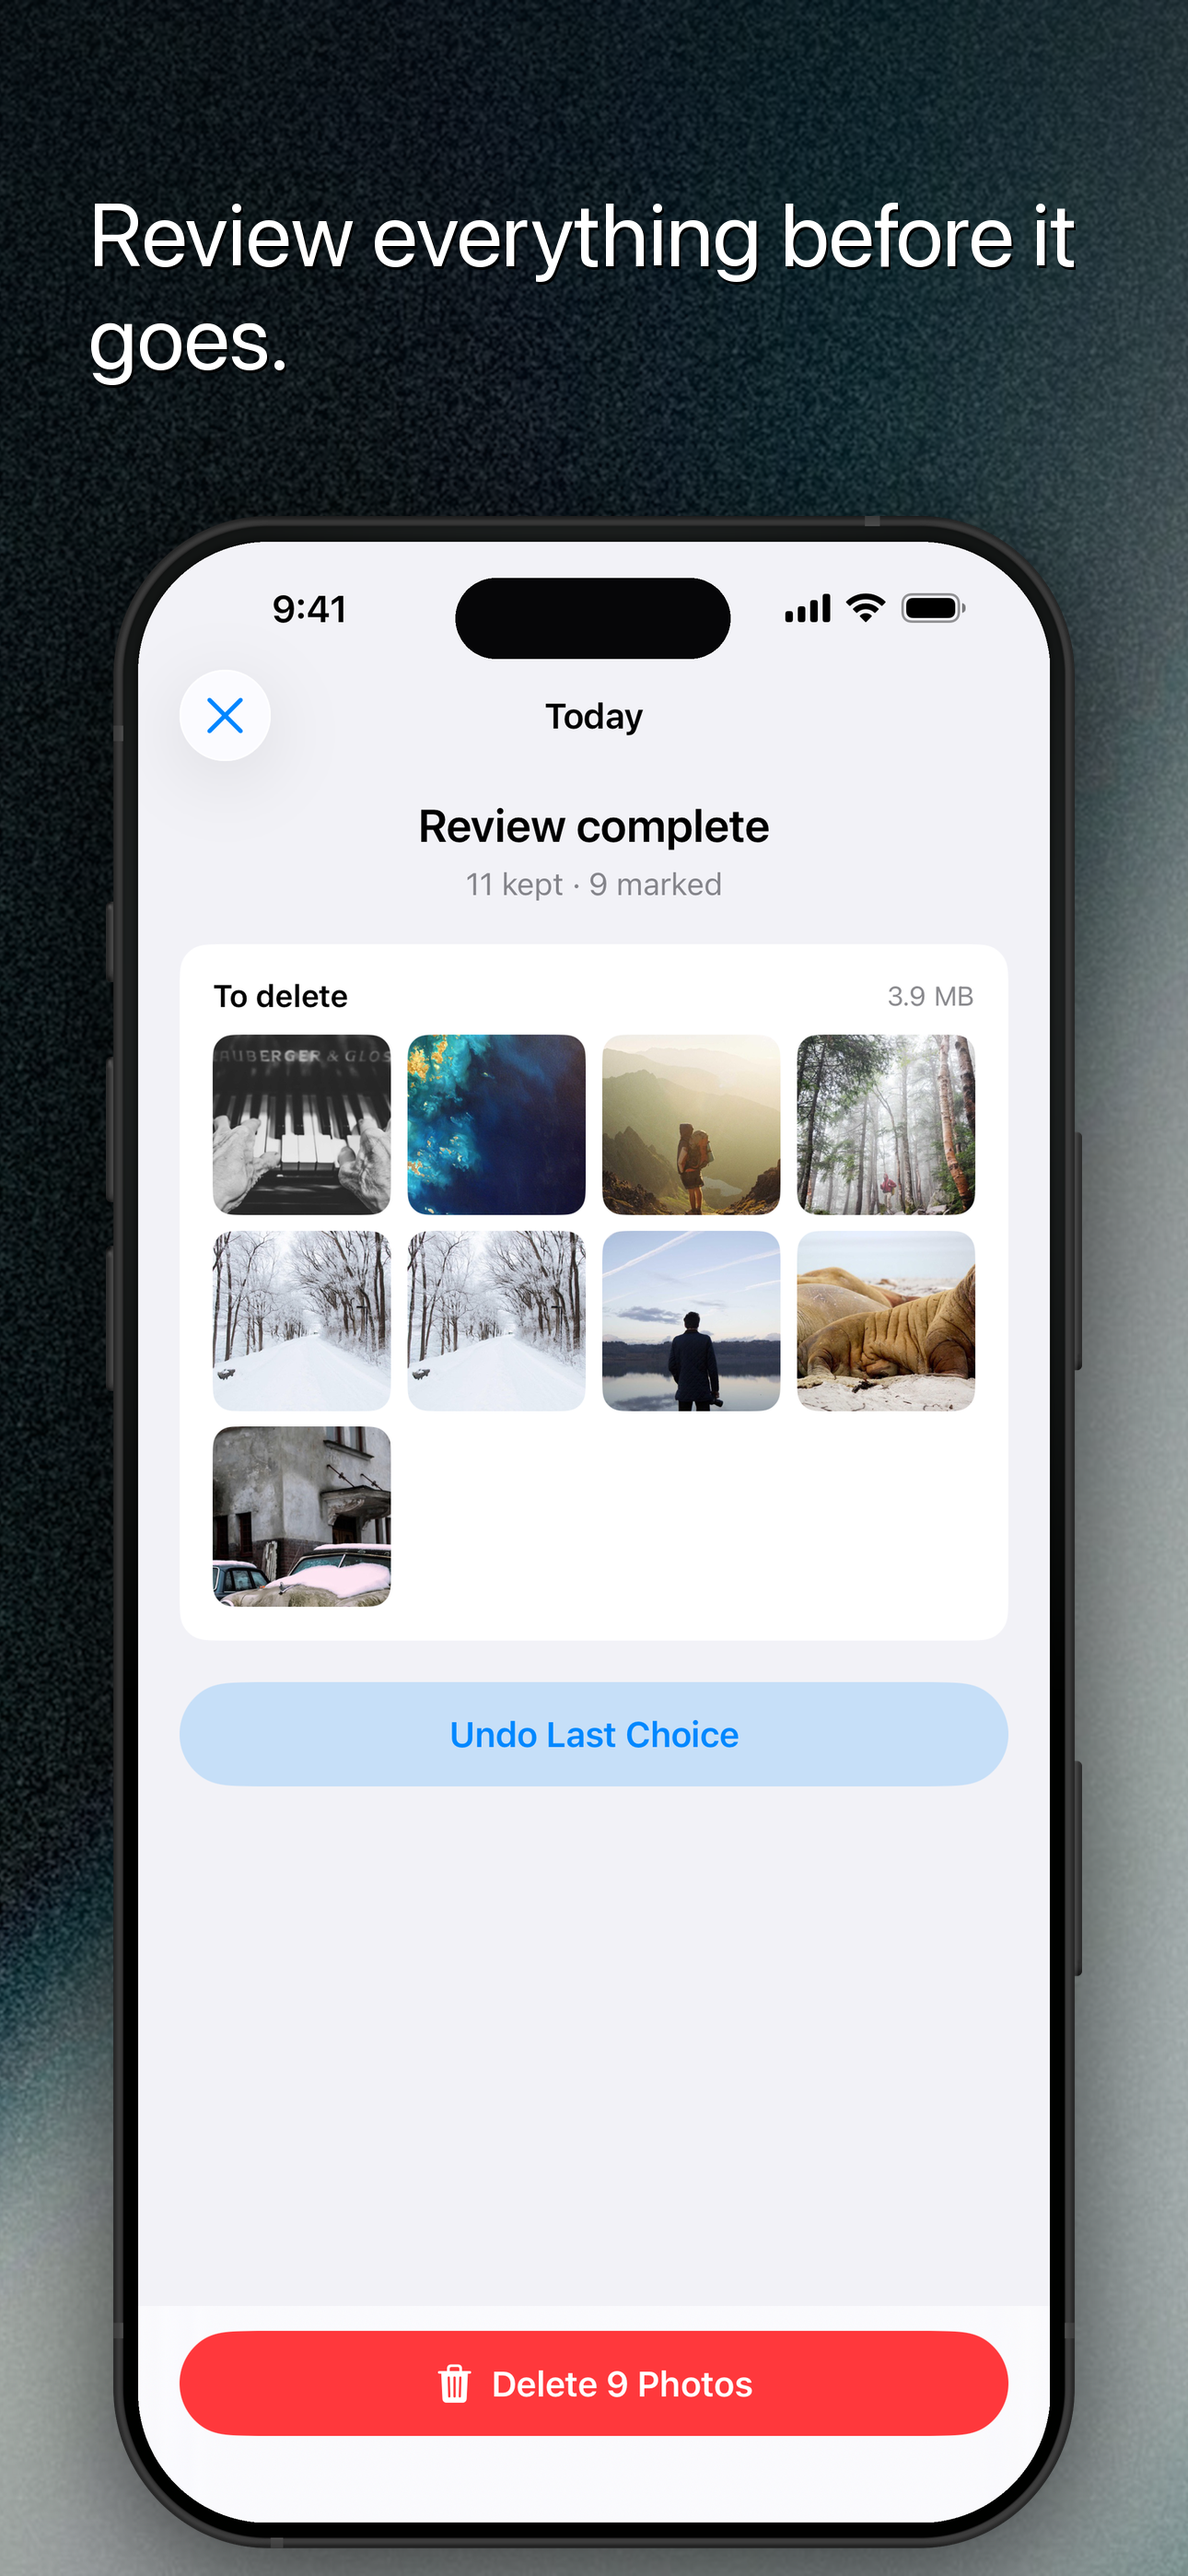
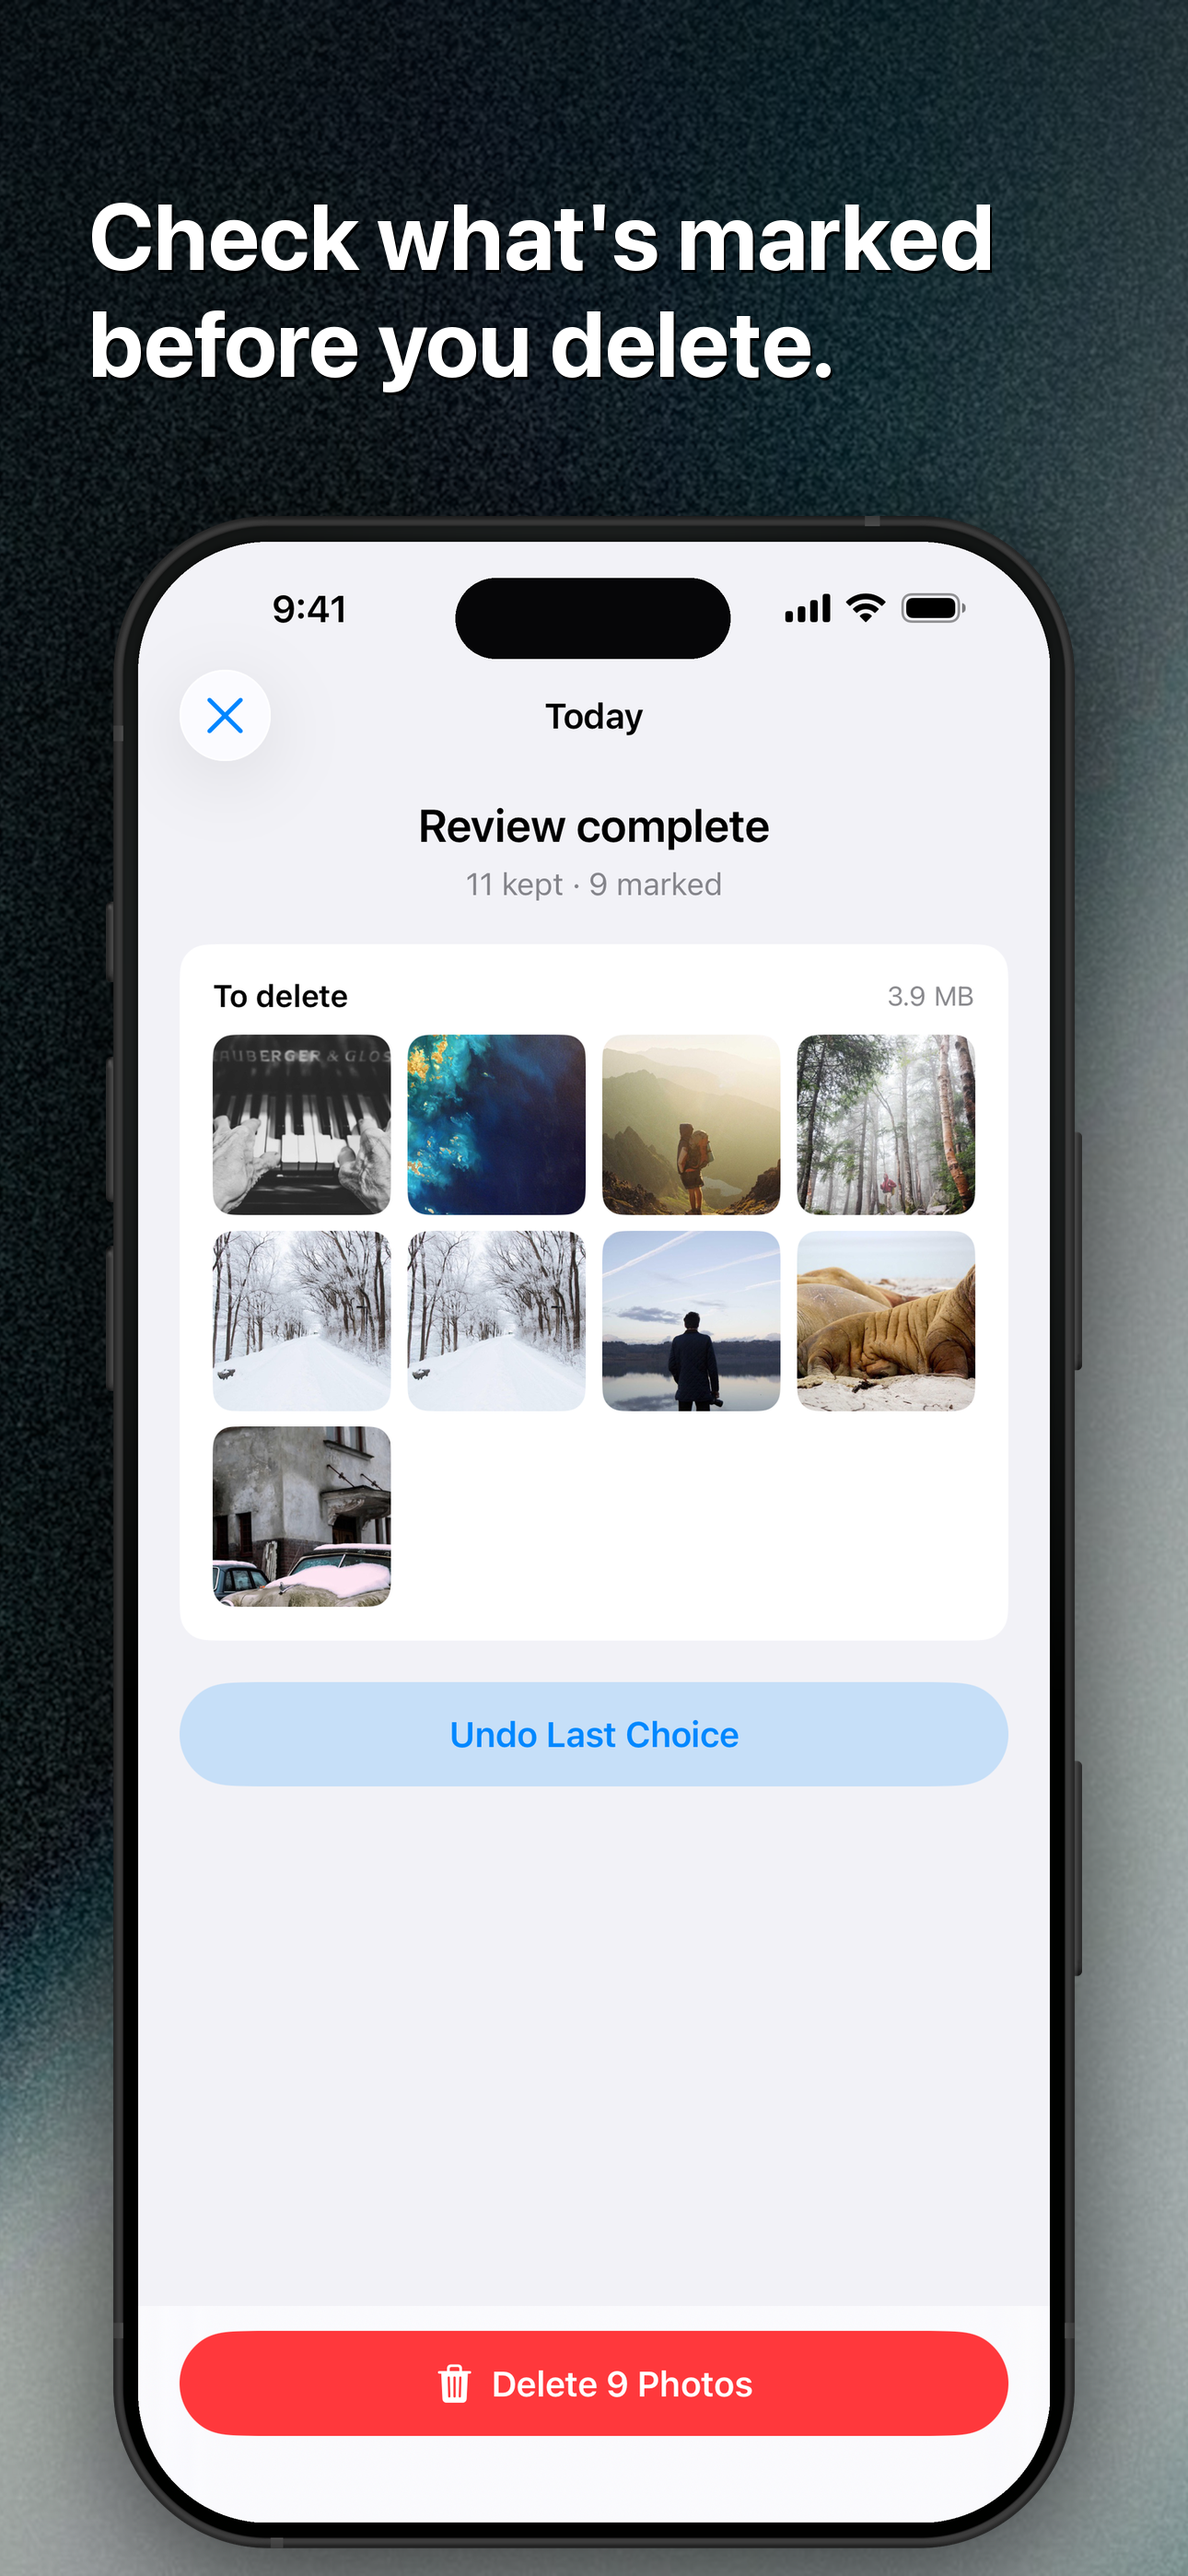
Bolder App Store screenshot headlines + plainer taglines
Switch the marketing headline from thin SF Regular to SF Bold (via the
system variable font's weight axis) at a slightly larger size so it
matches the app's own bold titles and holds up against the aurora
backdrop. Reword the six taglines to plainly describe each screen and
drop the marketing/euphemistic phrasing:

  home     Clear photo clutter in minutes.    -> Clear photo clutter by category.
  review   Review one item at a time.         -> Keep or delete, one at a time.
  similar  Find duplicate-looking shots.      -> Compare similar shots.
  details  Know what you are looking at.      -> See a photo's date, size, and location.
  summary  Review everything before it goes.  -> Check what's marked before you delete.
  settings Tune each cleanup session.         -> Set your review size and what's remembered.

Regenerates all 12 output PNGs (iPhone 6.9 + iPad 13).

Changed region(s): [[0.062, 0.0622, 0.8992, 0.1556]]

diff --git a/marketing/app-store-screenshots/generate.py b/marketing/app-store-screenshots/generate.py
@@ -71,25 +71,45 @@ IPAD_GLASS_VB = (33.5825, 33.5509, 673.417, 886.449)
 IPAD_GLASS_RX_VB = 12.37
 
 SLIDES = [
-    {"title": "Clear photo clutter in minutes.", "screen": "home"},
-    {"title": "Review one item at a time.", "screen": "review"},
-    {"title": "Find duplicate-looking shots.", "screen": "similar"},
-    {"title": "Know what you are looking at.", "screen": "details"},
-    {"title": "Review everything before it goes.", "screen": "summary"},
-    {"title": "Tune each cleanup session.", "screen": "settings"},
+    {"title": "Clear photo clutter by category.", "screen": "home"},
+    {"title": "Keep or delete, one at a time.", "screen": "review"},
+    {"title": "Compare similar shots.", "screen": "similar"},
+    {"title": "See a photo's date, size, and location.", "screen": "details"},
+    {"title": "Check what's marked before you delete.", "screen": "summary"},
+    {"title": "Set your review size and what's remembered.", "screen": "settings"},
 ]
 
+# Headline weight. San Francisco (SFNS.ttf) is a variable font; we select a
+# named weight off its wght axis so the marketing headline carries the same
+# confident weight as the app's own bold titles ("SnipSnaps", "Settings")
+# instead of the thin Regular that got lost against the aurora backdrop.
+# Options: "Regular" / "Medium" / "Semibold" / "Bold" / "Heavy". "Semibold" is
+# the quieter alternative; "Heavy" reads as an ad and is too much for a utility.
+HEADLINE_WEIGHT = "Bold"
 
-def font(size: int) -> ImageFont.FreeTypeFont:
+# wght-axis coordinate per named weight (SF's Weight axis runs 1-1000, Regular=400).
+_WEIGHTS = {"Regular": 400, "Medium": 500, "Semibold": 600, "Bold": 700, "Heavy": 860}
+
+
+def font(size: int, weight: str = "Regular") -> ImageFont.FreeTypeFont:
     for candidate in (
         "/System/Library/Fonts/SFNS.ttf",
         "/System/Library/Fonts/HelveticaNeue.ttc",
         "/System/Library/Fonts/Avenir Next.ttc",
     ):
         try:
-            return ImageFont.truetype(candidate, size=size)
+            fnt = ImageFont.truetype(candidate, size=size)
         except OSError:
-            pass
+            continue
+        # SFNS is variable: pin axes (Width=100, Optical Size=96 for display-tuned
+        # letterforms, GRAD=400) and set the requested weight. Non-variable
+        # fallbacks silently skip this and render at their default weight.
+        if candidate.endswith("SFNS.ttf") and weight in _WEIGHTS:
+            try:
+                fnt.set_variation_by_axes([100, 96, 400, _WEIGHTS[weight]])
+            except (OSError, ValueError):
+                pass
+        return fnt
     return ImageFont.load_default()
 
 
@@ -240,8 +260,8 @@ def device_shadow(frame: Image.Image, blur: int, dy: int):
 
 
 def draw_headline(base: Image.Image, title: str, x: int, y: int, max_width: int, scale: float):
-    title_font = font(int(96 * scale))
-    line_height = int(112 * scale)
+    title_font = font(int(100 * scale), HEADLINE_WEIGHT)
+    line_height = int(116 * scale)
     d = ImageDraw.Draw(base, "RGBA")
     for i, line in enumerate(wrapped_lines(d, title, max_width, title_font)[:2]):
         ly = y + i * line_height
